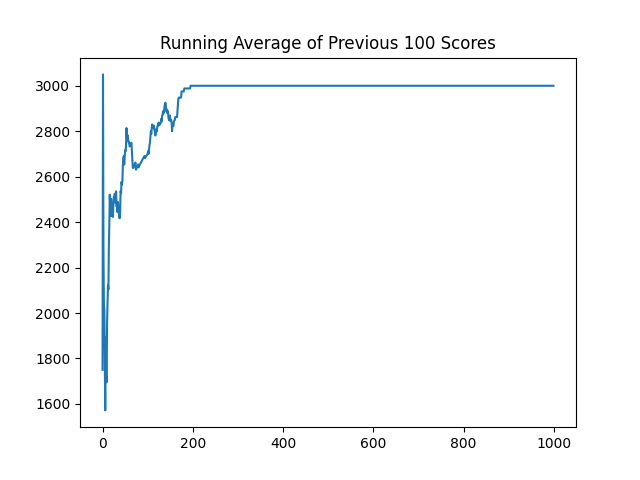
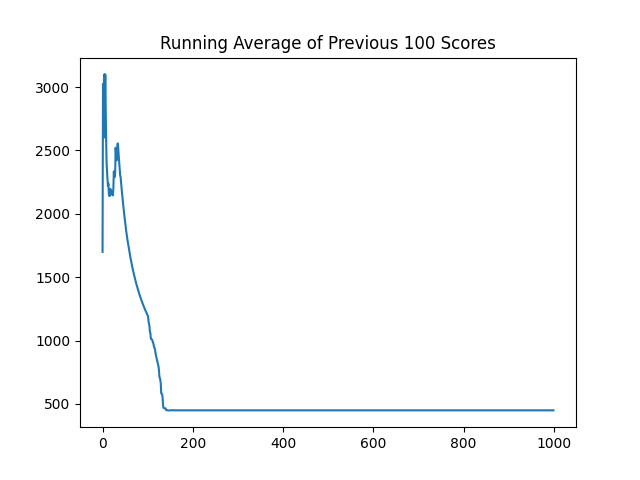
still trying to figure out deadlock issue, I suspect there's some sort of NaN error occuring on some threads

diff --git a/main.py b/main.py
@@ -12,8 +12,6 @@ import gymnasium as gym
 warnings.simplefilter("ignore")
 ALEInterface.setLoggerMode(LoggerMode.Error)
 
-os.environ["OMP_NUM_THREADS"] = "1"
-
 
 class ParallelEnv:
     def __init__(self, env_id, n_threads, input_shape, n_actions, n_games):
@@ -25,8 +23,8 @@ class ParallelEnv:
         global_icm = ICM(input_shape, n_actions)
         global_icm.share_memory()  # ???
 
-        optimizer = SharedAdam(global_agent.parameters(), lr=1e-4)
-        icm_optimizer = SharedAdam(global_icm.parameters(), lr=1e-4)
+        optimizer = SharedAdam(global_agent.parameters(), lr=3e-5)
+        icm_optimizer = SharedAdam(global_icm.parameters(), lr=3e-5)
 
         self.ps = [
             mp.Process(
@@ -47,11 +45,12 @@ class ParallelEnv:
         ]
 
         [p.start() for p in self.ps]
-        [p.join(timeout=10) for p in self.ps]
+        [p.join() for p in self.ps]
 
 
 if __name__ == "__main__":
     from argparse import ArgumentParser
+    import torch
 
     parser = ArgumentParser()
     parser.add_argument(
@@ -59,17 +58,21 @@ if __name__ == "__main__":
     )
     parser.add_argument(
         "--n_threads",
-        default=5,
+        default=4,
         type=int,
         help="Number of parallel environments during training",
     )
     parser.add_argument(
         "--n_games",
-        default=2000,
+        default=5000,
         type=int,
         help="Total number of episodes (games) to play during training",
     )
     args = parser.parse_args()
+
+    # os.environ["OMP_NUM_THREADS"] = "1"
+    torch.set_num_threads(4)
+
 
     for fname in ["metrics", "environments", "weights", "csv"]:
         if not os.path.exists(fname):

diff --git a/worker.py b/worker.py
@@ -74,7 +74,7 @@ def worker(
                 with torch.multiprocessing.Lock():
                     optimizer.zero_grad()
                     loss.backward()
-                    torch.nn.utils.clip_grad_norm_(local_agent.parameters(), 40)
+                    torch.nn.utils.clip_grad_norm_(local_agent.parameters(), 10)
 
                     for local_param, global_param in zip(
                         local_agent.parameters(), global_agent.parameters()
@@ -84,8 +84,10 @@ def worker(
                     optimizer.step()
                     local_agent.load_state_dict(global_agent.state_dict())
 
+                with torch.multiprocessing.Lock():
                     icm_optimizer.zero_grad()
                     (inv_loss + forward_loss).backward()
+                    torch.nn.utils.clip_grad_norm_(local_icm.parameters(), 10)
 
 
                     for local_param, global_param in zip(

diff --git a/config.py b/config.py
@@ -17,8 +17,8 @@ environments = [
     # "CentipedeNoFrameskip-v4",
     # "ChopperCommandNoFrameskip-v4",
     # "CrazyClimberNoFrameskip-v4",
-    "DefenderNoFrameskip-v4",
-    "DemonAttackNoFrameskip-v4",
+    # "DefenderNoFrameskip-v4",
+    # "DemonAttackNoFrameskip-v4",
     "DoubleDunkNoFrameskip-v4",
     "ElevatorActionNoFrameskip-v4",
     "EnduroNoFrameskip-v4",
